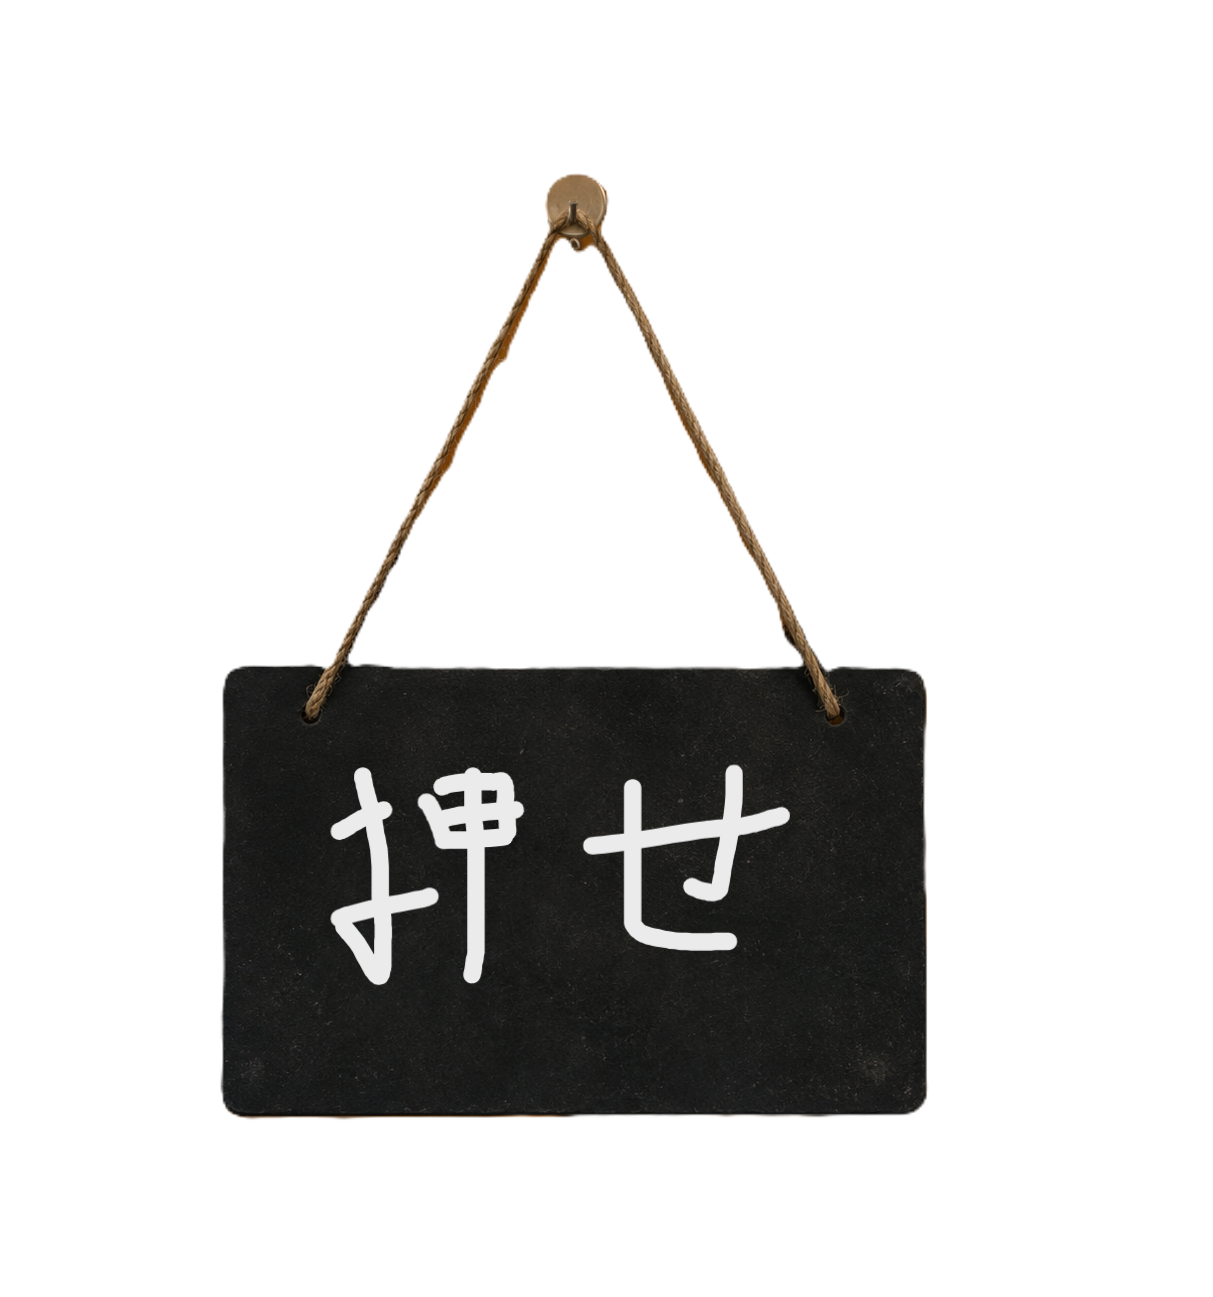
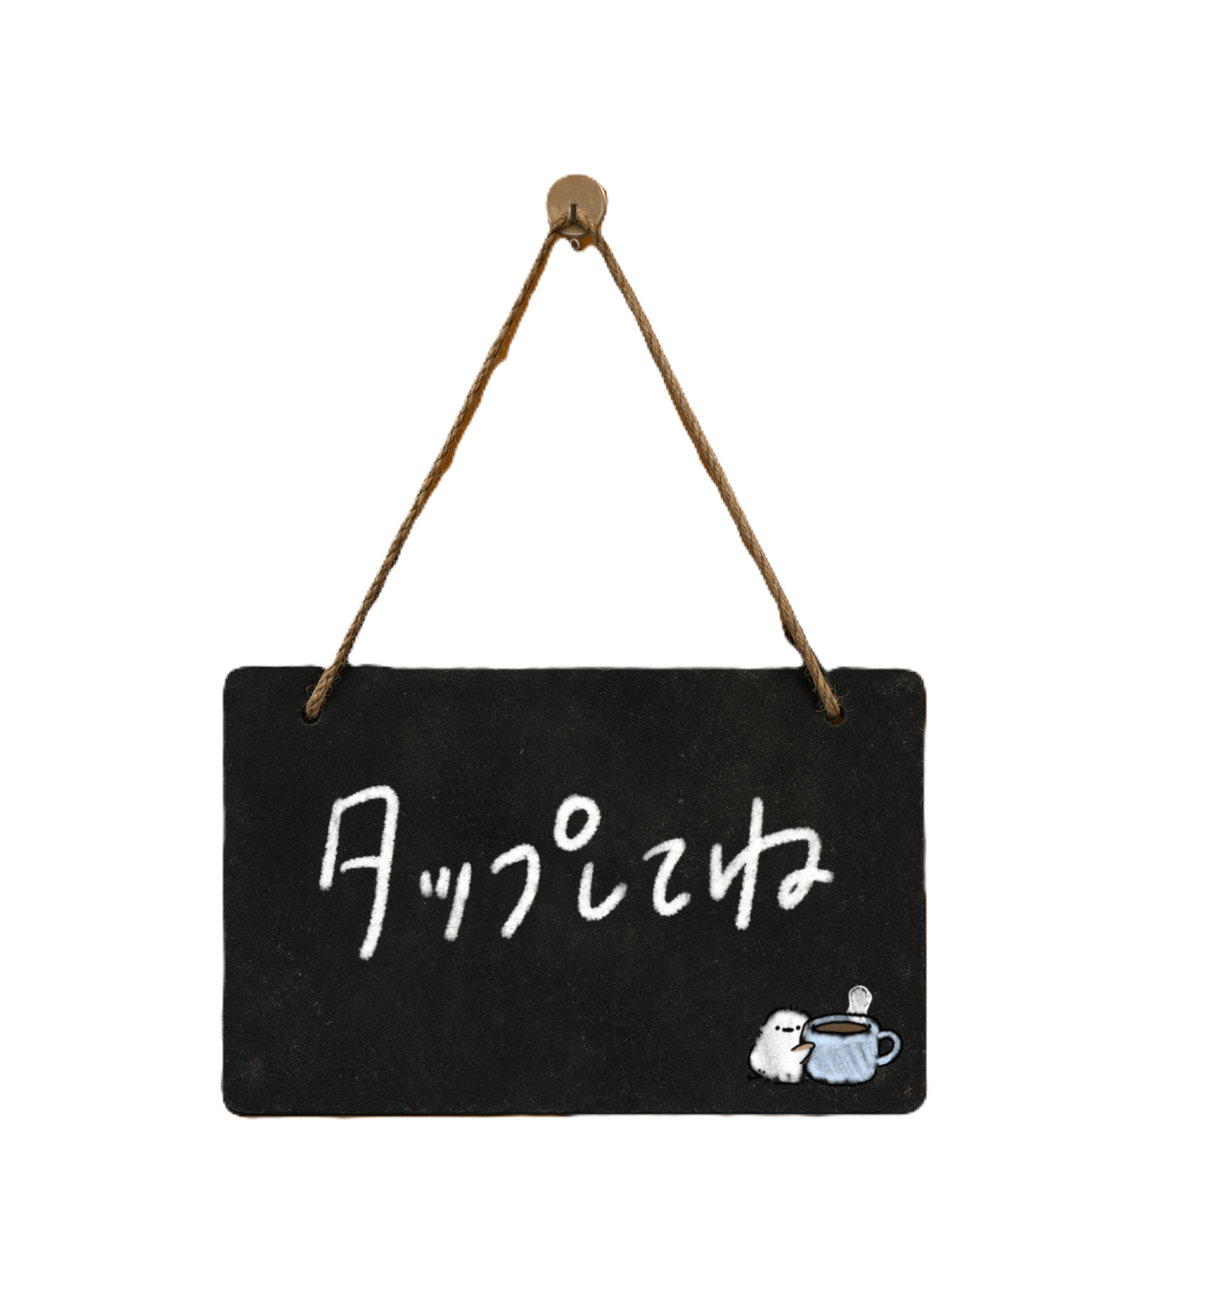
loginのバグ修正

Changed region(s): [[0.244, 0.586, 0.7016, 0.771], [0.6101, 0.7402, 0.7626, 0.8327]]

diff --git a/source/src/main/webapp/js/login.js b/source/src/main/webapp/js/login.js
@@ -23,8 +23,8 @@ const cameraPos = {
 		
 		slide:{
 			board:{
-				x:200,
-				y:100
+				x:700,
+				y:590
 			}
 		}
 	},
@@ -58,24 +58,25 @@ function move(position, animate = true){
 
 //新規登録→登録完了画面時など、スライドする時に使うもの
 function slide(toPosition, duration = 1500){
-	
-	const from = cameraPos[sceneName];
 
-	let x;
-	let y;
-	
-	if(from.slide && from.slide[toPosition]){
-	    x = from.slide[toPosition].x;
-	    y = from.slide[toPosition].y;
-	}else{
-	    x = cameraPos[toPosition].x;
-	    y = cameraPos[toPosition].y;
-	}
+    const fromScene = document.body.dataset.from;
+    const from = cameraPos[fromScene];
+    const to = cameraPos[toPosition];
 
-	camera.style.transition = `transform ${duration}ms ease`;
-	
-	camera.style.transform = `translate(${x}px, ${y}px) scale(${currentZoom})`;
+    let x;
+    let y;
 
+    if(from && from.slide && from.slide[toPosition]){
+        x = from.slide[toPosition].x;
+        y = from.slide[toPosition].y;
+    }else{
+        x = to.x;
+        y = to.y;
+    }
+
+    camera.style.transition = `transform ${duration}ms ease`;
+
+    camera.style.transform = `translate(${x}px, ${y}px) scale(${to.zoom})`;
 }
 
 
@@ -133,7 +134,7 @@ function initScene(){
 	if(sceneName == "board" && from == "signup"){
 		move("signup", false);
 		
-		requestAnimationFrame(function(){
+		setTimeout(function(){
 			slide("board");
 		});
 		return;
@@ -217,6 +218,13 @@ function setBack(selector, position, nextPage, effect, fromPosition = null){
     });
 }
 
+const logoutForm = document.querySelector(".input2");
+
+if(logoutForm){
+    logoutForm.addEventListener("click", function(e){
+        e.stopPropagation();
+    });
+}
 
 // メニュー画面のボタン
 setHover(".loginHover","login","/f2/LoginServlet?from=menu","zoom");

diff --git a/source/src/main/webapp/css/login.css b/source/src/main/webapp/css/login.css
@@ -300,8 +300,8 @@ body{
 /* 入力フォームの配置 */
 .input2{
     position:absolute;
-    left:26.5%;
-    top:43%;
+    left:47%;
+    top:69%;
     transform:translate(-50%,-50%);
 
     display:flex;
